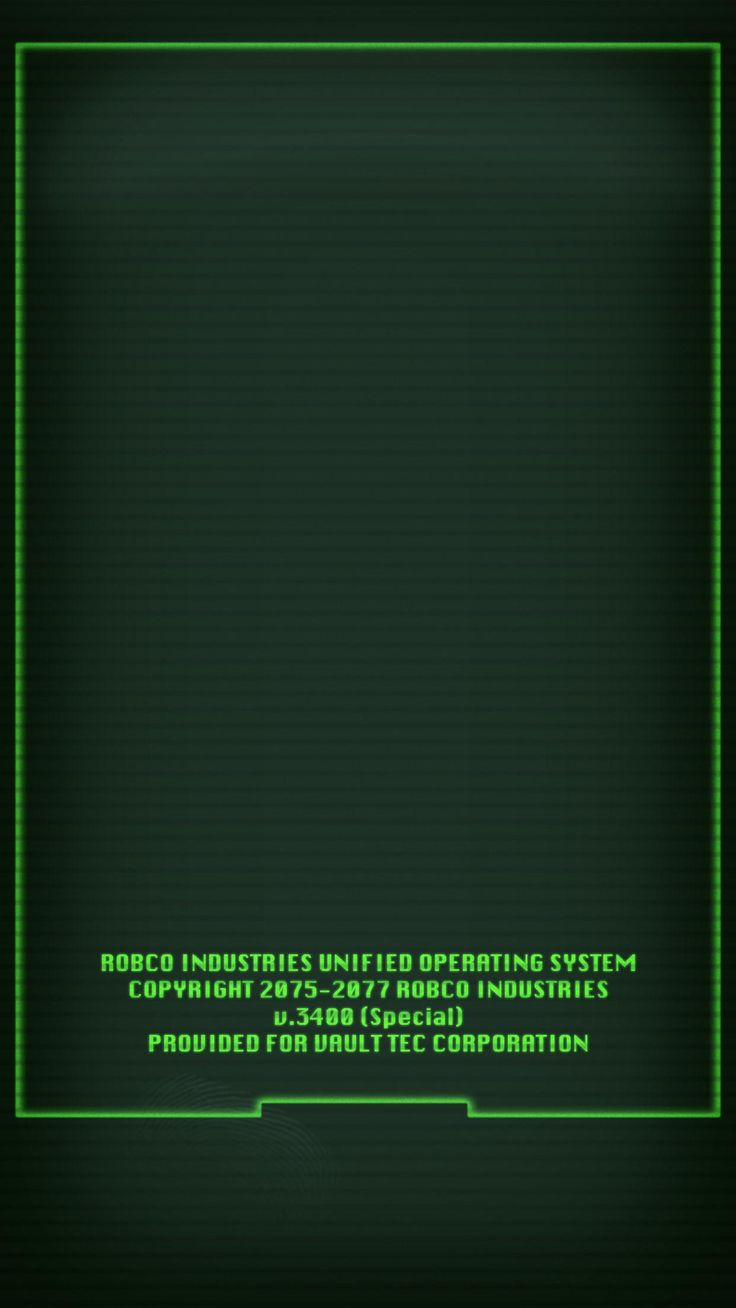
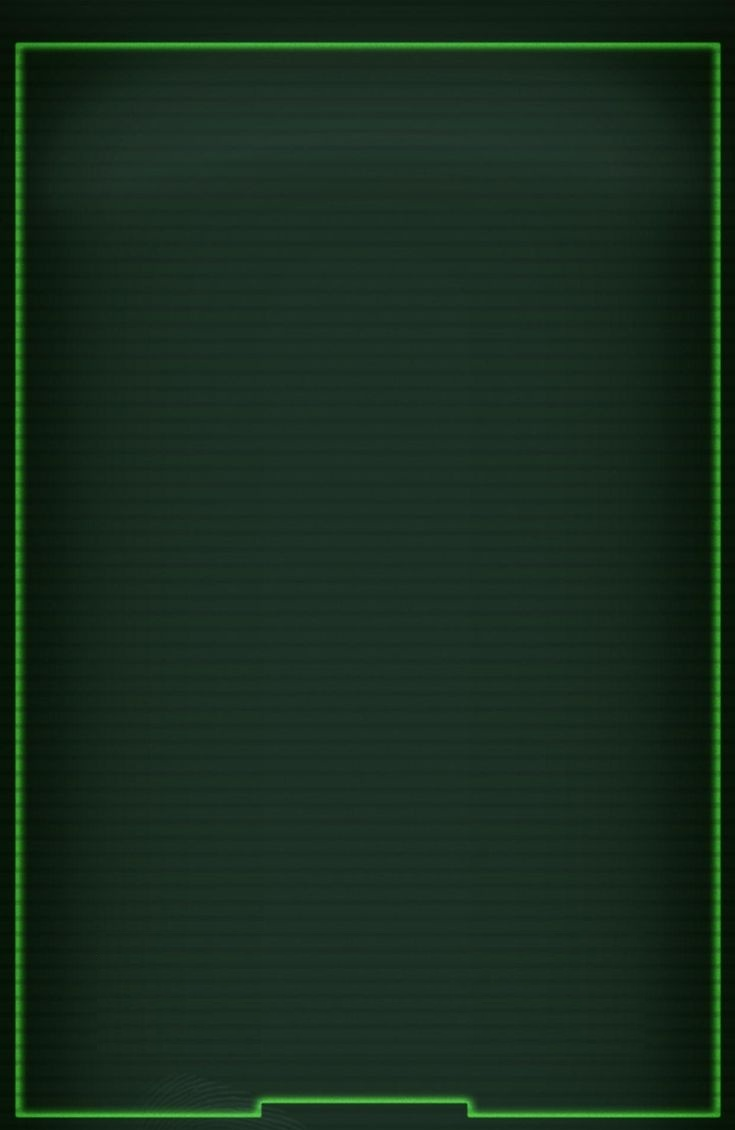
improved background

Changed region(s): [[0.0, 0.031, 0.9878, 1.0], [0.1197, 0.7124, 0.868, 0.8053]]

diff --git a/src/components/RegisterForm.tsx b/src/components/RegisterForm.tsx
@@ -94,18 +94,18 @@ export default function RegisterForm() {
 	}
 
 	return (
-		<div className='h-screen text-text'>
+		<div className='h-screen max-w-xl text-text'>
 			<div style={{ marginTop: `${navHeight}px` }} className='p-4 h-with-navbar'>
 				<form
 					className='h-full flex flex-col justify-center items-center text-center'
 					onSubmit={handleSubmit(onSubmit)}>
 					<h2 className='mb-5 text-3xl'>Sign up for Vault Market</h2>
 
-					<div className='flex flex-wrap justify-center gap-5'>
+					<div className='flex flex-wrap justify-center gap-1'>
 						<h3 className='text-xl'>Enter your registration details</h3>
 
 						<TextField
-							size='medium'
+							size='small'
 							className='relative w-3/4'
 							{...register('email')}
 							onFocus={() => setFocused('email')}
@@ -119,7 +119,7 @@ export default function RegisterForm() {
 							helperText={<span className='block h-4'>{errors.email?.message}</span>}
 							InputProps={{
 								startAdornment: focused === 'email' && (
-									<InputAdornment position='start'>
+									<InputAdornment className='-ml-[14px] absolute input-adornment-enter-active' position='start'>
 										<FaAngleRight />
 									</InputAdornment>
 								),
@@ -127,7 +127,7 @@ export default function RegisterForm() {
 						/>
 
 						<TextField
-							size='medium'
+							size='small'
 							type='password'
 							className='relative w-3/4'
 							{...register('password')}
@@ -142,7 +142,7 @@ export default function RegisterForm() {
 							helperText={<span className='block h-4'>{errors.password?.message}</span>}
 							InputProps={{
 								startAdornment: focused === 'password' && (
-									<InputAdornment position='start'>
+									<InputAdornment className='-ml-[14px] absolute input-adornment-enter-active' position='start'>
 										<FaAngleRight />
 									</InputAdornment>
 								),
@@ -150,7 +150,7 @@ export default function RegisterForm() {
 						/>
 
 						<TextField
-							size='medium'
+							size='small'
 							type='password'
 							className='relative w-3/4'
 							{...register('confirmPassword')}
@@ -165,7 +165,7 @@ export default function RegisterForm() {
 							helperText={<span className='block h-4'>{errors.confirmPassword?.message}</span>}
 							InputProps={{
 								startAdornment: focused === 'confirmPassword' && (
-									<InputAdornment position='start'>
+									<InputAdornment className='-ml-[14px] absolute input-adornment-enter-active' position='start'>
 										<FaAngleRight />
 									</InputAdornment>
 								),
@@ -173,7 +173,7 @@ export default function RegisterForm() {
 						/>
 					</div>
 
-					<div className='flex flex-col justify-center items-center mt-4 gap-4'>
+					<div className='flex flex-col justify-center items-center mt-4 gap-2'>
 						<p>
 							Already have an account?{' '}
 							<Link href='/login' className='underline'>

diff --git a/src/components/LoginForm.tsx b/src/components/LoginForm.tsx
@@ -77,18 +77,18 @@ export default function LoginForm() {
 	}
 
 	return (
-		<div className='h-screen text-text'>
+		<div className='h-screen max-w-xl text-text'>
 			<div style={{ marginTop: `${navHeight}px` }} className='p-4 h-with-navbar'>
 				<form
 					className='h-full flex flex-col justify-center items-center text-center'
 					onSubmit={handleSubmit(onSubmit)}>
 					<h2 className='mb-5 text-3xl'>Log in to Vault Market</h2>
 
-					<div className='flex flex-wrap justify-center gap-5'>
+					<div className='flex flex-wrap justify-center gap-1'>
 						<h3 className='text-xl'>Enter your login details</h3>
 
 						<TextField
-							size='medium'
+							size='small'
 							className='relative w-3/4'
 							{...register('email')}
 							onFocus={() => setFocused('email')}
@@ -102,7 +102,7 @@ export default function LoginForm() {
 							helperText={<span className='block h-4'>{errors.email?.message}</span>}
 							InputProps={{
 								startAdornment: focused === 'email' && (
-									<InputAdornment position='start'>
+									<InputAdornment className='-ml-[14px] absolute input-adornment-enter-active' position='start'>
 										<FaAngleRight />
 									</InputAdornment>
 								),
@@ -110,7 +110,7 @@ export default function LoginForm() {
 						/>
 
 						<TextField
-							size='medium'
+							size='small'
 							type='password'
 							className='relative w-3/4'
 							{...register('password')}
@@ -125,7 +125,7 @@ export default function LoginForm() {
 							helperText={<span className='block h-4'>{errors.password?.message}</span>}
 							InputProps={{
 								startAdornment: focused === 'password' && (
-									<InputAdornment position='start'>
+									<InputAdornment className='-ml-[14px] absolute input-adornment-enter-active' position='start'>
 										<FaAngleRight />
 									</InputAdornment>
 								),
@@ -133,7 +133,7 @@ export default function LoginForm() {
 						/>
 					</div>
 
-					<div className='flex flex-col justify-center items-center mt-4 gap-4'>
+					<div className='flex flex-col justify-center items-center mt-4 gap-2'>
 						<p>
 							Need to create an account?{' '}
 							<Link href='/register' className='underline'>

diff --git a/src/app/(authorize)/register/page.tsx b/src/app/(authorize)/register/page.tsx
@@ -15,8 +15,11 @@ const Home = () => {
 				<Navbar />
 				<ToastContainer autoClose={3000} draggablePercent={60} stacked hideProgressBar />
 				<main className='relative min-h-screen'>
-					<div className='absolute inset-0 -z-10 '>
-						<Image src='/imgs/authBg.png' alt='Background' fill style={{ objectFit: 'contain' }} />
+					<div className='absolute inset-0 -z-10'>
+						{/* wersja dla mniejszych rozmiarów */}
+						<Image src='/imgs/authBg2.jpg' alt='Background small' fill className='object-cover bg-small' />
+						{/* wersja dla dużych viewportów */}
+						<Image src='/imgs/authBg.png' alt='Background large' fill className='object-contain bg-large' />
 					</div>
 
 					<div className='flex items-center justify-center h-full'>

diff --git a/src/app/(authorize)/login/page.tsx b/src/app/(authorize)/login/page.tsx
@@ -16,11 +16,12 @@ const Home = () => {
 			<NavigationProvider>
 				<Navbar />
 				<ToastContainer autoClose={3000} draggablePercent={60} stacked hideProgressBar />
-				<main className='flex bg-bg '>
-					<div className='hidden md:block relative w-1/2'>
-						<Image className='object-cover' src={'/imgs/diamondCityMarket.webp'} alt='Diamond City Market' fill />
+				<main className='relative min-h-screen'>
+					<div className='absolute inset-0 -z-10 '>
+						<Image className='object-contain' src='/imgs/authBg.png' alt='Background' fill />
 					</div>
-					<div className='flex-1'>
+
+					<div className='flex items-center justify-center h-full'>
 						<LoginForm />
 					</div>
 				</main>

diff --git a/src/app/globals.css b/src/app/globals.css
@@ -181,3 +181,20 @@ input::-webkit-inner-spin-button {
 		opacity: 1;
 	}
 }
+
+.bg-small {
+	display: block;
+}
+.bg-large {
+	display: none;
+}
+
+
+@media (min-width: 1300px) and (min-height: 730px) {
+	.bg-small {
+		display: none;
+	}
+	.bg-large {
+		display: block;
+	}
+}
